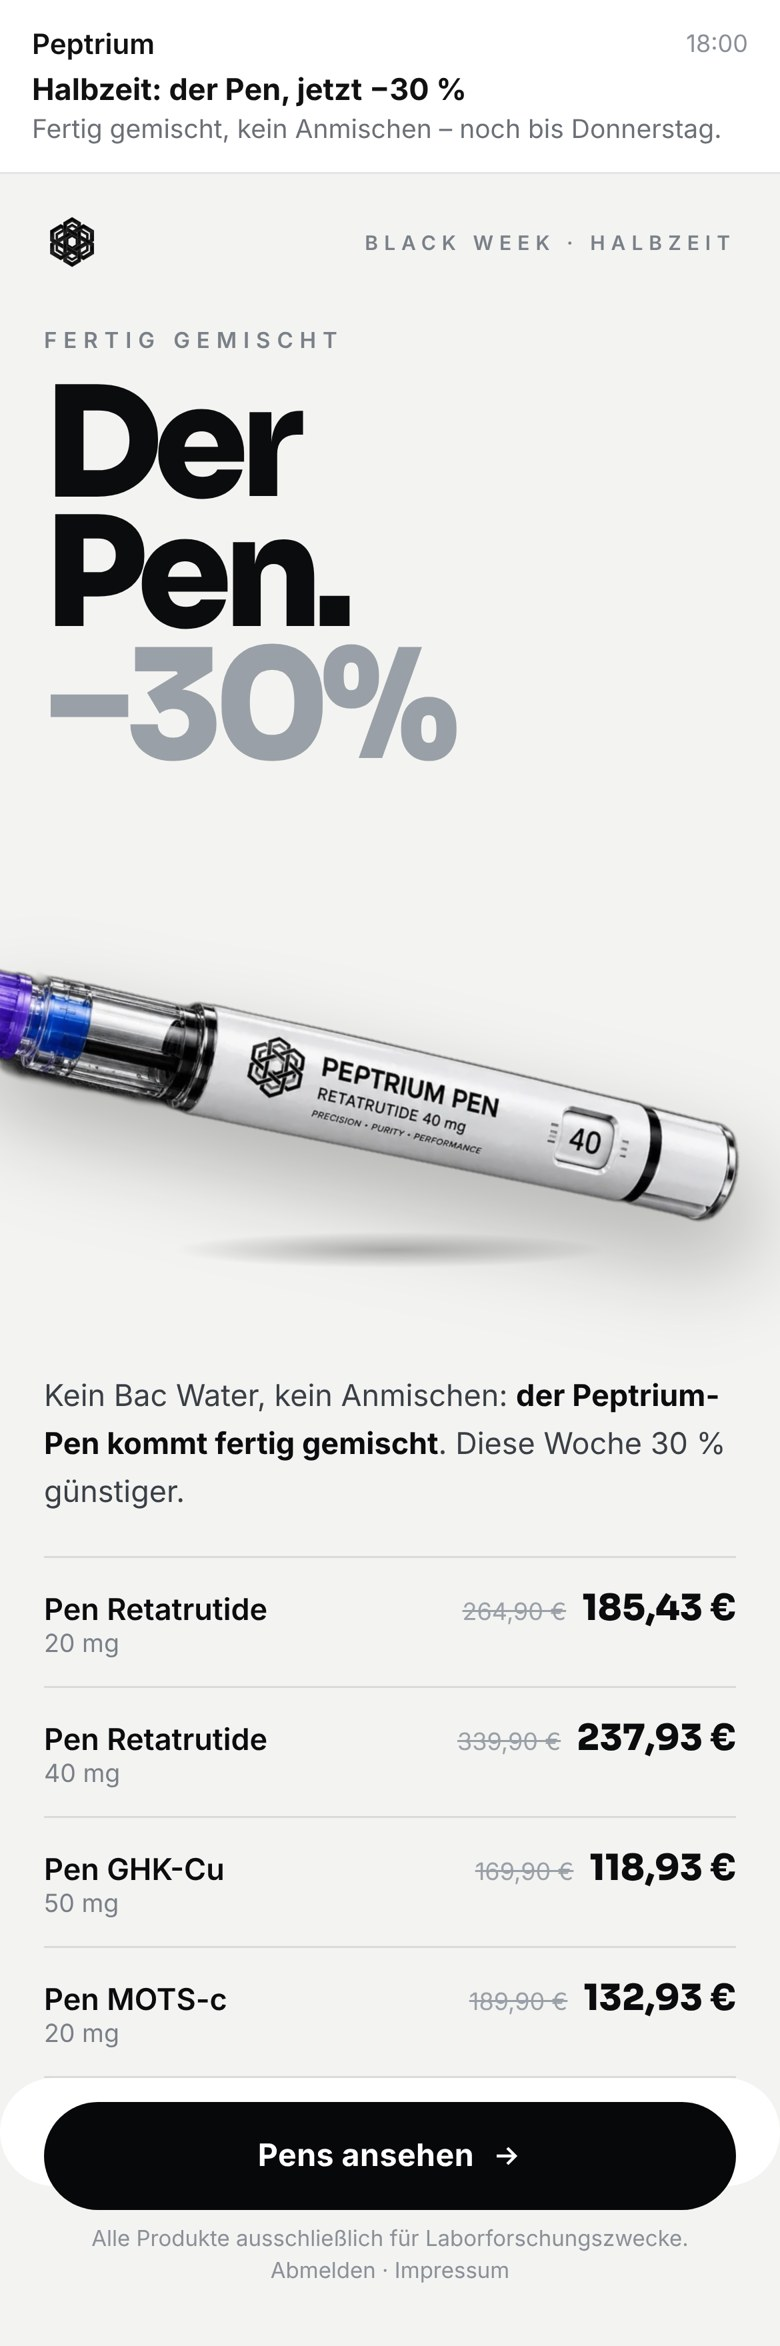
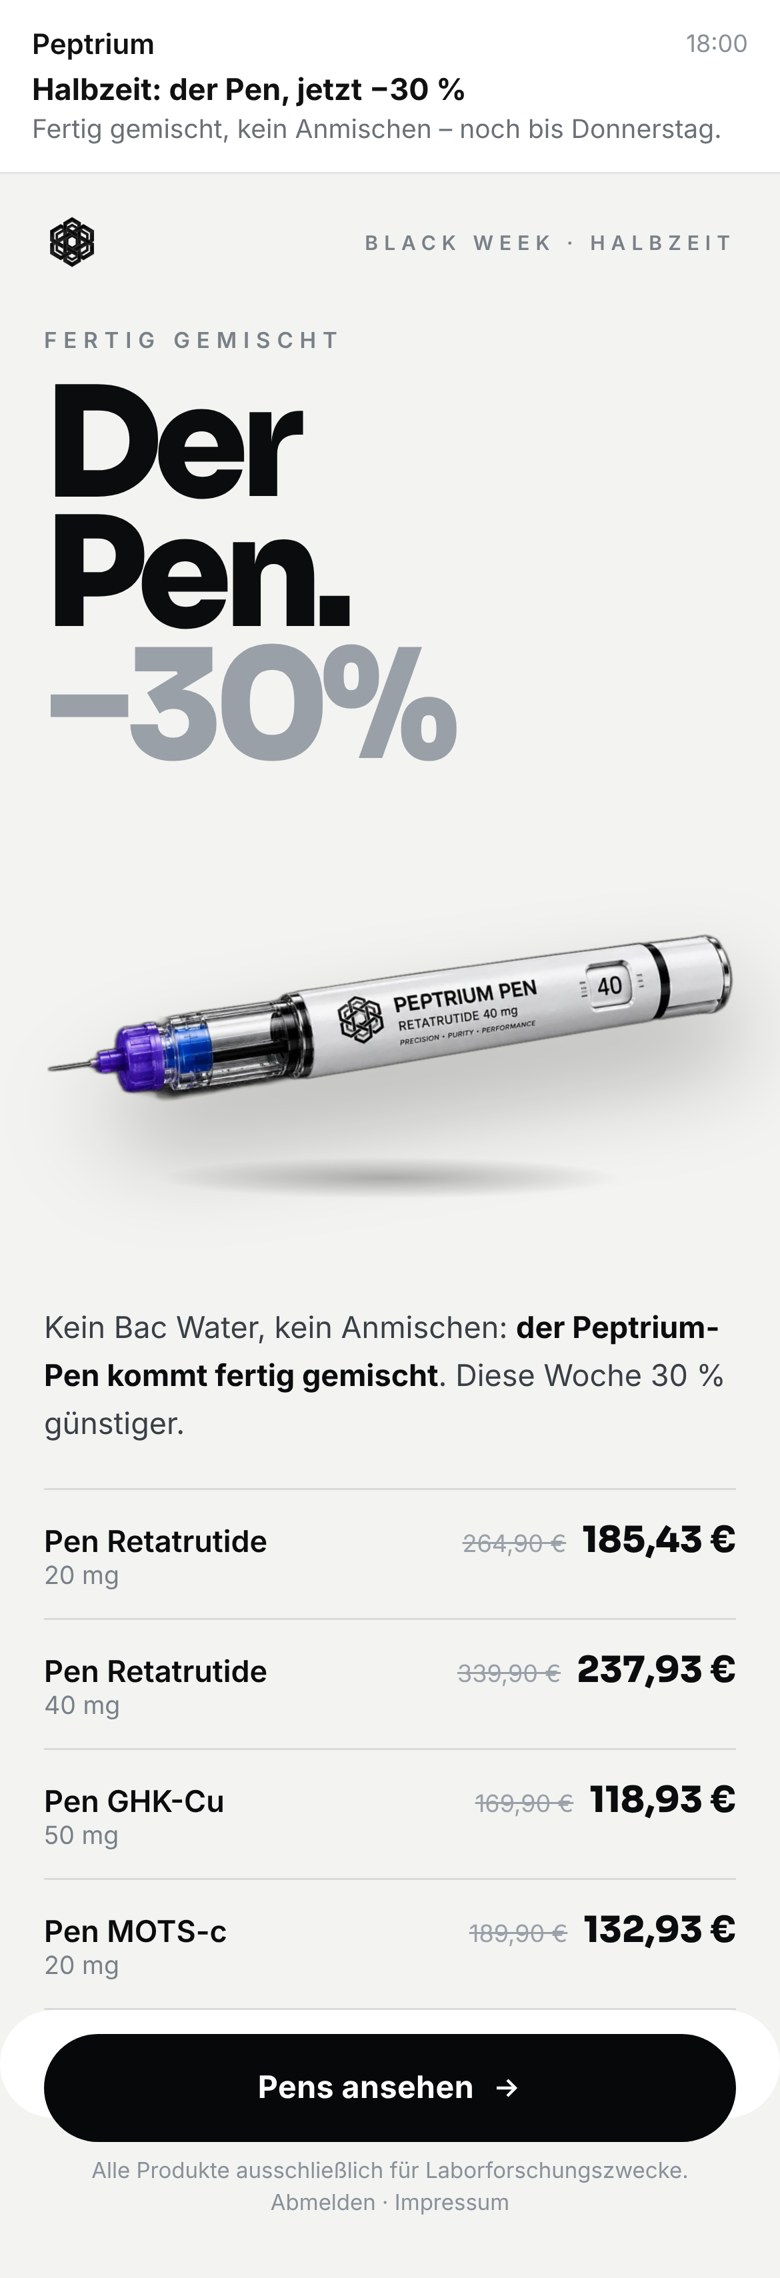
Black Week: Pen-Bild freigestellt und waagerecht (Mail 2+3)
Claude-Session: https://claude.ai/code/session_011YY7DBkbr5BcFGKyLoSbVN

diff --git a/drafts/blackweek-2026-11-16/hero/m2-3-fav.html b/drafts/blackweek-2026-11-16/hero/m2-3-fav.html
@@ -37,4 +37,4 @@ html,body{overflow-x:hidden}body{height:auto;background:#fff;overflow-y:visible}
 
 </style></head><body>
 <div class="inbox"><div class="f">Peptrium <span>11:00</span></div><div class="s">Die Favoriten, jetzt 30 % günstiger</div><div class="p">Starter-Set, Pen-Set und GLOW – fertig zusammengestellt.</div></div>
-<div class="m"><div class="hd"><h1>Die<br>Favoriten.</h1><div class="r">BLACK WEEK<b>−30%</b>BIS DO 26.11.</div></div><div class="in">Die meisten bestellen nicht einzeln, sondern alles, was zusammengehört. Hier die beliebtesten Kombinationen – schon reduziert.</div><div class="g"><div class="t big"><div class="im"><img src="reta.png" style="height:100%"></div><div class="nf"><span>Retatrutide Starter-Set</span><small>Retatrutide 10 mg · Bac Water · Spritzen</small></div><div class="pp"><s>99,70 €</s><b>69,79 €</b></div></div><div class="t"><div class="im"><img src="pen.png" style="width:118%;transform:rotate(-22deg);margin:30px 0 0 -9%"></div><div class="nf"><span>Retatrutide Pen-Set</span><small>Pen 20 mg + Pen Nadeln</small></div><div class="pp"><s>274,80 €</s><b>192,36 €</b></div></div><div class="t"><div class="im"><img src="glow.png" style="height:100%"></div><div class="nf"><span>GLOW</span><small>GHK-Cu · BPC-157 · TB-500</small></div><div class="pp"><s>139,90 €</s><b>97,93 €</b></div></div><div class="t"><div class="im"><img src="ghk.png" style="height:100%"></div><div class="nf"><span>GHK-Cu Komplett</span><small>GHK-Cu 50 mg · Bac Water · Spritzen</small></div><div class="pp"><s>59,70 €</s><b>41,79 €</b></div></div><div class="t"><div class="im"><img src="mt2.png" style="height:100%"></div><div class="nf"><span>Melanotan II</span><small>10 mg</small></div><div class="pp"><s>29,90 €</s><b>20,93 €</b></div></div></div><div class="nb"><div><b>Ab 150 €</b>versandkostenfrei</div><div><b>Ab 200 €</b>Injektionskit gratis</div></div><div class="cta"><div class="btn bw">Alle Sets ansehen<svg viewBox="0 0 24 24"><path d="M5 12h14M13 6l6 6-6 6"/></svg></div></div><div class="ft">Alle Produkte ausschließlich für Laborforschungszwecke.<br>Abmelden · Impressum</div></div><script src="vial.js"></script></body></html>
+<div class="m"><div class="hd"><h1>Die<br>Favoriten.</h1><div class="r">BLACK WEEK<b>−30%</b>BIS DO 26.11.</div></div><div class="in">Die meisten bestellen nicht einzeln, sondern alles, was zusammengehört. Hier die beliebtesten Kombinationen – schon reduziert.</div><div class="g"><div class="t big"><div class="im"><img src="reta.png" style="height:100%"></div><div class="nf"><span>Retatrutide Starter-Set</span><small>Retatrutide 10 mg · Bac Water · Spritzen</small></div><div class="pp"><s>99,70 €</s><b>69,79 €</b></div></div><div class="t"><div class="im"><img src="pen-h.png" style="width:96%;height:auto;align-self:center;transform:rotate(-12deg)"></div><div class="nf"><span>Retatrutide Pen-Set</span><small>Pen 20 mg + Pen Nadeln</small></div><div class="pp"><s>274,80 €</s><b>192,36 €</b></div></div><div class="t"><div class="im"><img src="glow.png" style="height:100%"></div><div class="nf"><span>GLOW</span><small>GHK-Cu · BPC-157 · TB-500</small></div><div class="pp"><s>139,90 €</s><b>97,93 €</b></div></div><div class="t"><div class="im"><img src="ghk.png" style="height:100%"></div><div class="nf"><span>GHK-Cu Komplett</span><small>GHK-Cu 50 mg · Bac Water · Spritzen</small></div><div class="pp"><s>59,70 €</s><b>41,79 €</b></div></div><div class="t"><div class="im"><img src="mt2.png" style="height:100%"></div><div class="nf"><span>Melanotan II</span><small>10 mg</small></div><div class="pp"><s>29,90 €</s><b>20,93 €</b></div></div></div><div class="nb"><div><b>Ab 150 €</b>versandkostenfrei</div><div><b>Ab 200 €</b>Injektionskit gratis</div></div><div class="cta"><div class="btn bw">Alle Sets ansehen<svg viewBox="0 0 24 24"><path d="M5 12h14M13 6l6 6-6 6"/></svg></div></div><div class="ft">Alle Produkte ausschließlich für Laborforschungszwecke.<br>Abmelden · Impressum</div></div><script src="vial.js"></script></body></html>

diff --git a/drafts/blackweek-2026-11-16/hero/m2-2-pen.html b/drafts/blackweek-2026-11-16/hero/m2-2-pen.html
@@ -23,9 +23,9 @@ html,body{overflow-x:hidden}body{height:auto;background:#fff;overflow-y:visible}
 .h{padding:30px 22px 0}.h .k{font:600 11px/1 Inter;letter-spacing:.3em;color:#7A8088}
 .h h1{font:800 76px/.86 Sora;letter-spacing:-.06em;margin:14px 0 0;color:#0B0C0E}
 .h h1 em{font-style:normal;color:#9AA0A8}
-.stg{position:relative;height:300px;margin-top:-6px}
-.stg .sh{position:absolute;left:40px;right:40px;top:232px;height:26px;background:radial-gradient(50% 50% at 50% 50%,rgba(0,0,0,.28),transparent 70%)}
-.stg img{position:absolute;left:-26px;top:30px;width:372px;transform:rotate(-22deg);filter:drop-shadow(0 26px 24px rgba(0,0,0,.28))}
+.stg{position:relative;height:250px;margin-top:10px}
+.stg .sh{position:absolute;left:30px;right:30px;top:178px;height:30px;background:radial-gradient(50% 50% at 50% 50%,rgba(0,0,0,.28),transparent 70%)}
+.stg img{position:absolute;left:22px;top:92px;width:346px;transform:rotate(-9deg);filter:drop-shadow(0 26px 24px rgba(0,0,0,.28))}
 .tag{position:absolute;right:22px;top:20px;width:92px;height:92px;border-radius:50%;background:#0B0C0E;color:#fff;display:flex;flex-direction:column;align-items:center;justify-content:center;font:800 26px/1 Sora;letter-spacing:-.04em;transform:rotate(8deg)}
 .tag small{font:600 8.5px/1 Inter;letter-spacing:.2em;margin-top:4px;color:#9AA0A8}
 .tx{padding:6px 22px 0;font:400 15px/1.6 Inter;color:#3A3F46}.tx b{color:#0B0C0E}
@@ -36,4 +36,4 @@ html,body{overflow-x:hidden}body{height:auto;background:#fff;overflow-y:visible}
 
 </style></head><body>
 <div class="inbox"><div class="f">Peptrium <span>18:00</span></div><div class="s">Halbzeit: der Pen, jetzt −30 %</div><div class="p">Fertig gemischt, kein Anmischen – noch bis Donnerstag.</div></div>
-<div class="m"><div class="hd"><img src="logo.png"><span>BLACK WEEK · HALBZEIT</span></div><div class="h"><div class="k">FERTIG GEMISCHT</div><h1>Der<br>Pen.<em> −30%</em></h1></div><div class="stg"><div class="sh"></div><img src="pen.png"></div><div class="tx">Kein Bac Water, kein Anmischen: <b>der Peptrium-Pen kommt fertig gemischt</b>. Diese Woche 30 % günstiger.</div><div class="rows"><div class="r"><div><b>Pen Retatrutide</b><span>20 mg</span></div><div><s>264,90 €</s><i>185,43 €</i></div></div><div class="r"><div><b>Pen Retatrutide</b><span>40 mg</span></div><div><s>339,90 €</s><i>237,93 €</i></div></div><div class="r"><div><b>Pen GHK-Cu</b><span>50 mg</span></div><div><s>169,90 €</s><i>118,93 €</i></div></div><div class="r"><div><b>Pen MOTS-c</b><span>20 mg</span></div><div><s>189,90 €</s><i>132,93 €</i></div></div></div><div class="cta"><div class="btn bb">Pens ansehen<svg viewBox="0 0 24 24"><path d="M5 12h14M13 6l6 6-6 6"/></svg></div></div><div class="ft">Alle Produkte ausschließlich für Laborforschungszwecke.<br>Abmelden · Impressum</div></div><script src="vial.js"></script></body></html>
+<div class="m"><div class="hd"><img src="logo.png"><span>BLACK WEEK · HALBZEIT</span></div><div class="h"><div class="k">FERTIG GEMISCHT</div><h1>Der<br>Pen.<em> −30%</em></h1></div><div class="stg"><div class="sh"></div><img src="pen-h.png"></div><div class="tx">Kein Bac Water, kein Anmischen: <b>der Peptrium-Pen kommt fertig gemischt</b>. Diese Woche 30 % günstiger.</div><div class="rows"><div class="r"><div><b>Pen Retatrutide</b><span>20 mg</span></div><div><s>264,90 €</s><i>185,43 €</i></div></div><div class="r"><div><b>Pen Retatrutide</b><span>40 mg</span></div><div><s>339,90 €</s><i>237,93 €</i></div></div><div class="r"><div><b>Pen GHK-Cu</b><span>50 mg</span></div><div><s>169,90 €</s><i>118,93 €</i></div></div><div class="r"><div><b>Pen MOTS-c</b><span>20 mg</span></div><div><s>189,90 €</s><i>132,93 €</i></div></div></div><div class="cta"><div class="btn bb">Pens ansehen<svg viewBox="0 0 24 24"><path d="M5 12h14M13 6l6 6-6 6"/></svg></div></div><div class="ft">Alle Produkte ausschließlich für Laborforschungszwecke.<br>Abmelden · Impressum</div></div><script src="vial.js"></script></body></html>

diff --git a/drafts/blackweek-2026-11-16/hero/gen2.py b/drafts/blackweek-2026-11-16/hero/gen2.py
@@ -37,9 +37,9 @@ P['2-pen']=page('Halbzeit: der Pen, jetzt −30 %','Fertig gemischt, kein Anmisc
 .h{padding:30px 22px 0}.h .k{font:600 11px/1 Inter;letter-spacing:.3em;color:#7A8088}
 .h h1{font:800 76px/.86 Sora;letter-spacing:-.06em;margin:14px 0 0;color:#0B0C0E}
 .h h1 em{font-style:normal;color:#9AA0A8}
-.stg{position:relative;height:300px;margin-top:-6px}
-.stg .sh{position:absolute;left:40px;right:40px;top:232px;height:26px;background:radial-gradient(50% 50% at 50% 50%,rgba(0,0,0,.28),transparent 70%)}
-.stg img{position:absolute;left:-26px;top:30px;width:372px;transform:rotate(-22deg);filter:drop-shadow(0 26px 24px rgba(0,0,0,.28))}
+.stg{position:relative;height:250px;margin-top:10px}
+.stg .sh{position:absolute;left:30px;right:30px;top:178px;height:30px;background:radial-gradient(50% 50% at 50% 50%,rgba(0,0,0,.28),transparent 70%)}
+.stg img{position:absolute;left:22px;top:92px;width:346px;transform:rotate(-9deg);filter:drop-shadow(0 26px 24px rgba(0,0,0,.28))}
 .tag{position:absolute;right:22px;top:20px;width:92px;height:92px;border-radius:50%;background:#0B0C0E;color:#fff;display:flex;flex-direction:column;align-items:center;justify-content:center;font:800 26px/1 Sora;letter-spacing:-.04em;transform:rotate(8deg)}
 .tag small{font:600 8.5px/1 Inter;letter-spacing:.2em;margin-top:4px;color:#9AA0A8}
 .tx{padding:6px 22px 0;font:400 15px/1.6 Inter;color:#3A3F46}.tx b{color:#0B0C0E}
@@ -47,10 +47,10 @@ P['2-pen']=page('Halbzeit: der Pen, jetzt −30 %','Fertig gemischt, kein Anmisc
 .r{display:grid;grid-template-columns:1fr auto;padding:14px 0;border-bottom:1px solid #DADBD8;align-items:baseline}
 .r b{font:600 15px Inter}.r span{display:block;font:400 12.5px Inter;color:#7A8088}.r s{font:400 12px Inter;color:#9AA0A8;margin-right:8px}.r i{font:800 18px Sora;font-style:normal}
 .cta{padding:24px 22px 0}.ft{color:#8A9098}
-''','<div class="hd"><img src="logo.png"><span>BLACK WEEK · HALBZEIT</span></div><div class="h"><div class="k">FERTIG GEMISCHT</div><h1>Der<br>Pen.<em> −30%</em></h1></div><div class="stg"><div class="sh"></div><img src="pen.png"></div><div class="tx">Kein Bac Water, kein Anmischen: <b>der Peptrium-Pen kommt fertig gemischt</b>. Diese Woche 30 % günstiger.</div><div class="rows">'+''.join(f'<div class="r"><div><b>{n}</b><span>{x}</span></div><div><s>{eur(p)}</s><i>{eur(p*.7)}</i></div></div>' for n,x,p in [('Pen Retatrutide','20 mg',264.90),('Pen Retatrutide','40 mg',339.90),('Pen GHK-Cu','50 mg',169.90),('Pen MOTS-c','20 mg',189.90)])+'</div><div class="cta"><div class="btn bb">Pens ansehen'+ARW+'</div></div><div class="ft">Alle Produkte ausschließlich für Laborforschungszwecke.<br>Abmelden · Impressum</div>')
+''','<div class="hd"><img src="logo.png"><span>BLACK WEEK · HALBZEIT</span></div><div class="h"><div class="k">FERTIG GEMISCHT</div><h1>Der<br>Pen.<em> −30%</em></h1></div><div class="stg"><div class="sh"></div><img src="pen-h.png"></div><div class="tx">Kein Bac Water, kein Anmischen: <b>der Peptrium-Pen kommt fertig gemischt</b>. Diese Woche 30 % günstiger.</div><div class="rows">'+''.join(f'<div class="r"><div><b>{n}</b><span>{x}</span></div><div><s>{eur(p)}</s><i>{eur(p*.7)}</i></div></div>' for n,x,p in [('Pen Retatrutide','20 mg',264.90),('Pen Retatrutide','40 mg',339.90),('Pen GHK-Cu','50 mg',169.90),('Pen MOTS-c','20 mg',189.90)])+'</div><div class="cta"><div class="btn bb">Pens ansehen'+ARW+'</div></div><div class="ft">Alle Produkte ausschließlich für Laborforschungszwecke.<br>Abmelden · Impressum</div>')
 # ---------- Mail 3: Favoriten – Katalog/Lookbook ----------
 def tile(img,n,d,p,f,big=False,pen=False):
-    im=f'<img src="{img}" style="{"width:118%;transform:rotate(-22deg);margin:30px 0 0 -9%" if pen else "height:100%"}">'
+    im=f'<img src="{img}" style="{"width:96%;height:auto;align-self:center;transform:rotate(-12deg)" if pen else "height:100%"}">'
     return f'<div class="t{" big" if big else ""}"><div class="im">{im}</div><div class="nf"><span>{n}</span><small>{d}</small></div><div class="pp"><s>{eur(p)}</s><b>{eur(p*f)}</b></div></div>'
 P['3-fav']=page('Die Favoriten, jetzt 30 % günstiger','Starter-Set, Pen-Set und GLOW – fertig zusammengestellt.','11:00','''
 .m{background:#16181C;color:#fff}
@@ -71,7 +71,7 @@ P['3-fav']=page('Die Favoriten, jetzt 30 % günstiger','Starter-Set, Pen-Set und
 .cta{padding:20px 20px 0}.ft{color:#5F656C}
 ''','<div class="hd"><h1>Die<br>Favoriten.</h1><div class="r">BLACK WEEK<b>−30%</b>BIS DO 26.11.</div></div><div class="in">Die meisten bestellen nicht einzeln, sondern alles, was zusammengehört. Hier die beliebtesten Kombinationen – schon reduziert.</div><div class="g">'
  +tile('reta.png','Retatrutide Starter-Set','Retatrutide 10 mg · Bac Water · Spritzen',99.70,.7,True)
- +tile('pen.png','Retatrutide Pen-Set','Pen 20 mg + Pen Nadeln',274.80,.7,pen=True)
+ +tile('pen-h.png','Retatrutide Pen-Set','Pen 20 mg + Pen Nadeln',274.80,.7,pen=True)
  +tile('glow.png','GLOW','GHK-Cu · BPC-157 · TB-500',139.90,.7)
  +tile('ghk.png','GHK-Cu Komplett','GHK-Cu 50 mg · Bac Water · Spritzen',59.70,.7)
  +tile('mt2.png','Melanotan II','10 mg',29.90,.7)
